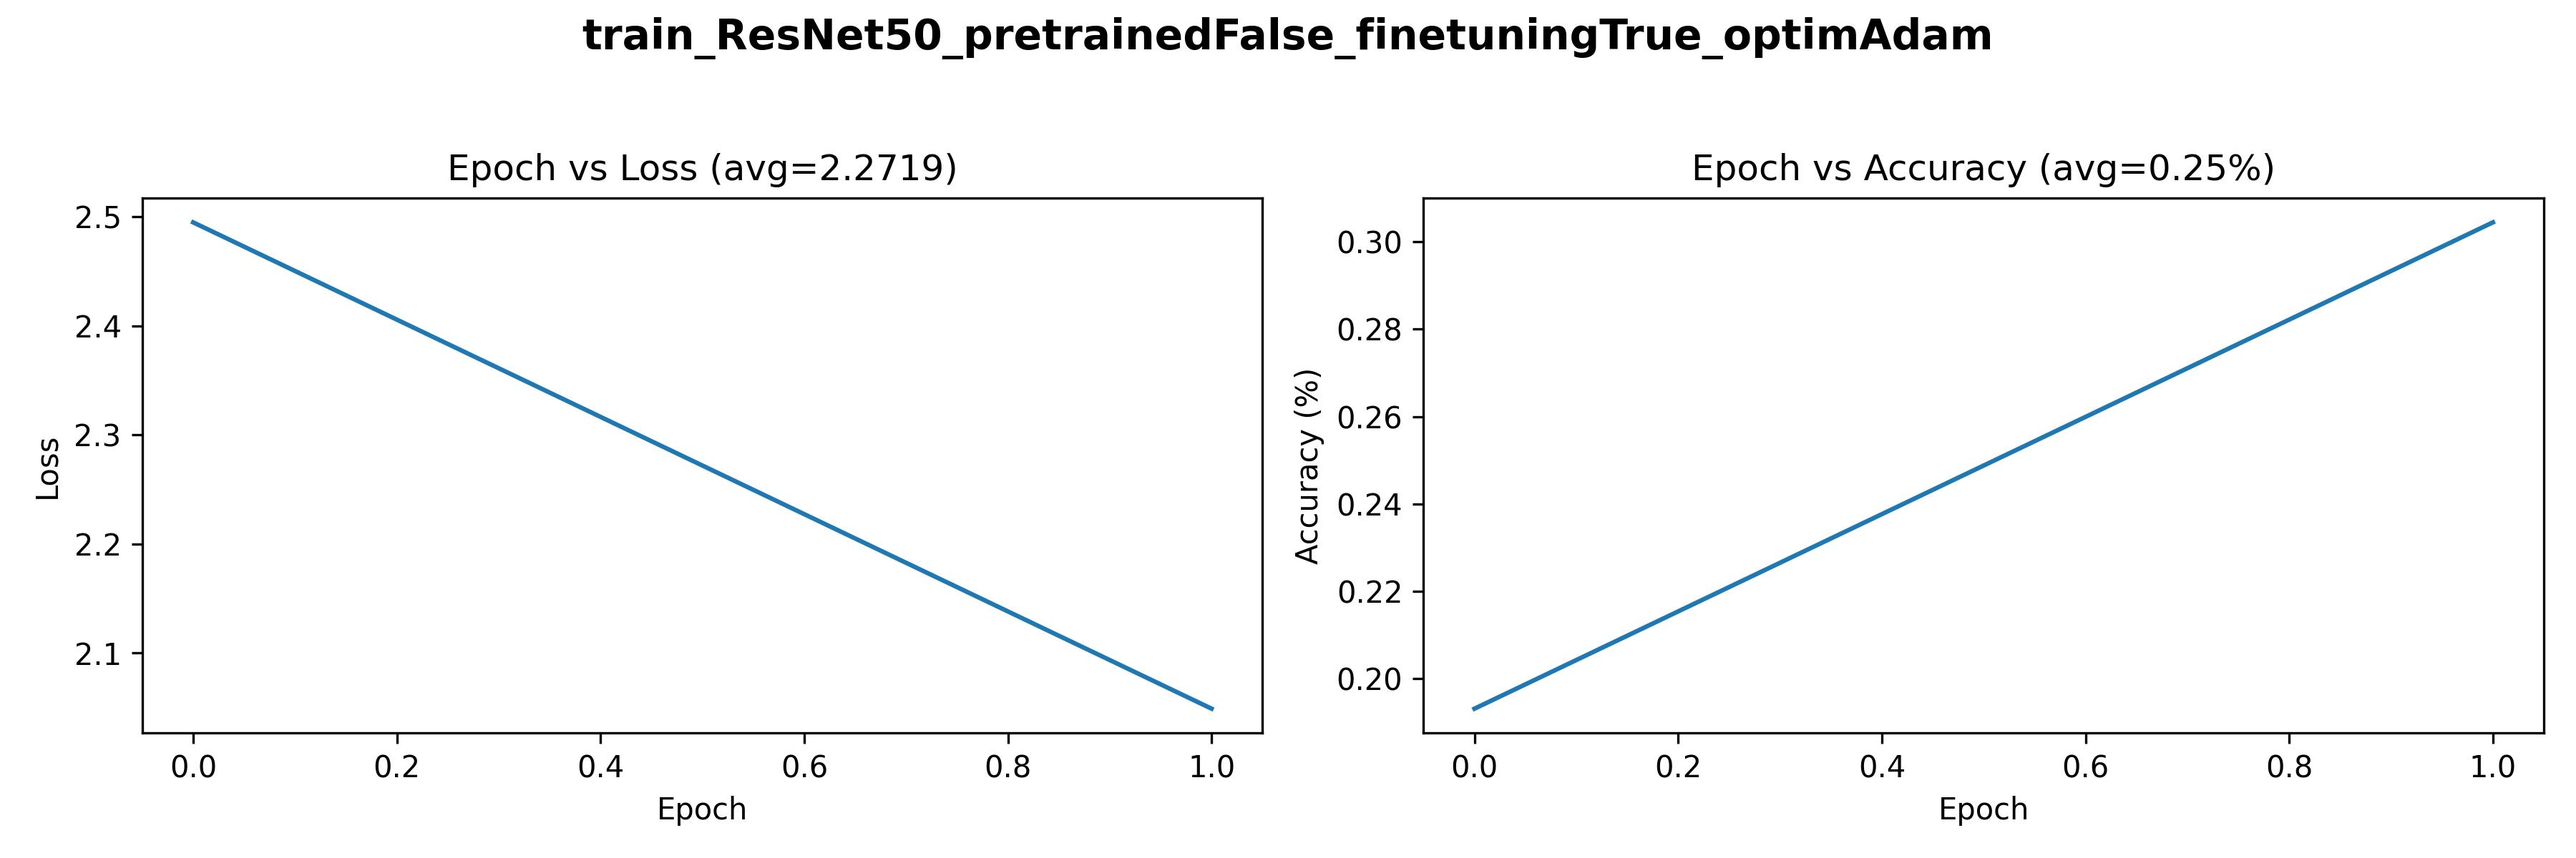
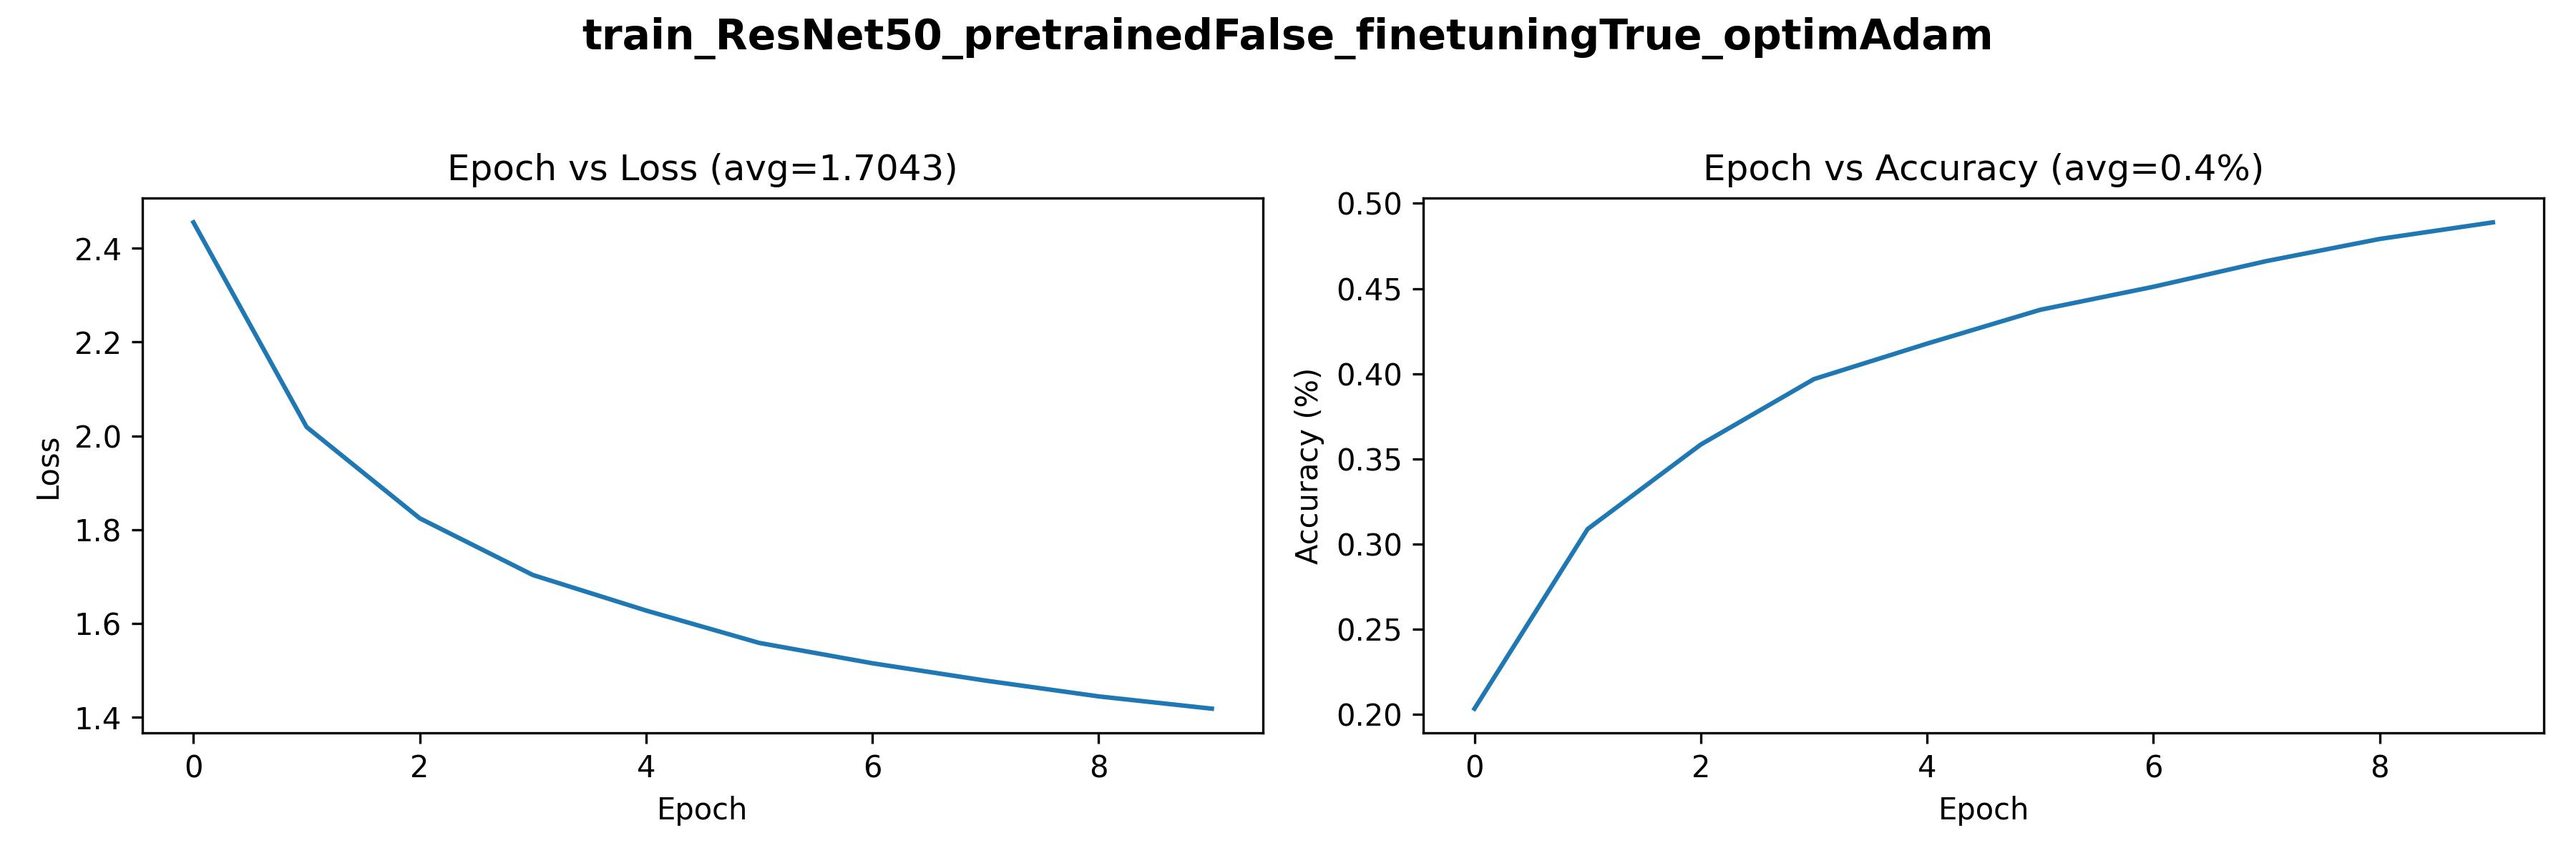
once again reran pretrained model experiments

diff --git a/src/pretrained_models.py b/src/pretrained_models.py
@@ -201,16 +201,11 @@ test_loader = DataLoader(test_dataset, batch_size=64, shuffle=False, pin_memory=
 # initializing data collection
 results_list = []
 
-# # setting experiment hyperparameters
-# lst_of_models = ['ResNet50']
-# pretrained = [False, True]
-# whether_to_finetune = [True, False]
-# optim_names = ['Adam','SGD']
-
+# setting experiment hyperparameters
 lst_of_models = ['ResNet50']
-pretrained = [True]
+pretrained = [False, True]
 whether_to_finetune = [True, False]
-optim_names = ['Adam']
+optim_names = ['Adam','SGD']
 
 for model_name in lst_of_models:
     for pretrained_flag in pretrained:
